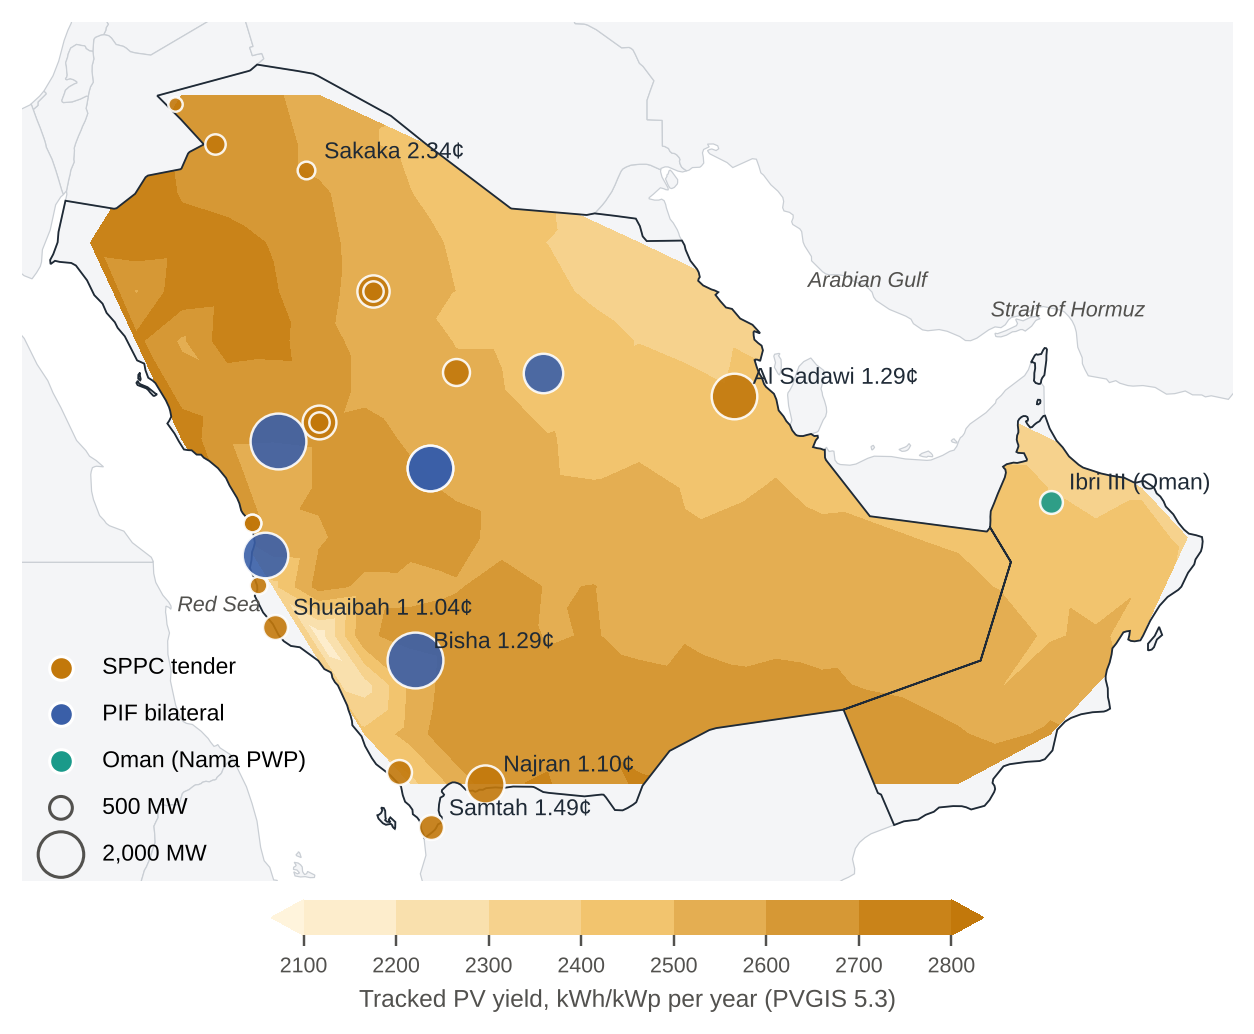
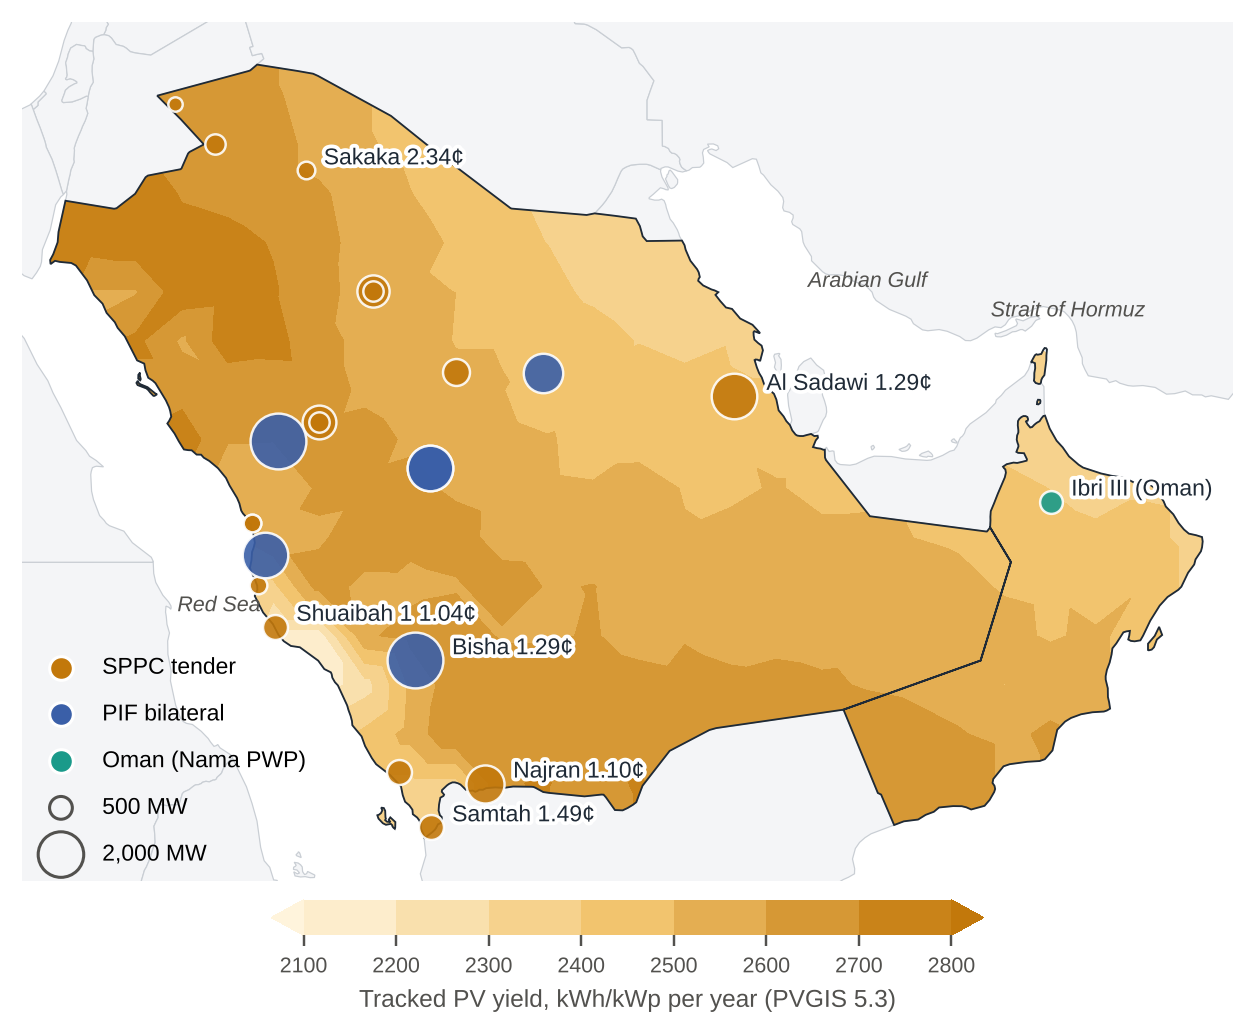
Fill map shading to the borders and halo the project labels

diff --git a/src/nrep/build_map.py b/src/nrep/build_map.py
@@ -7,11 +7,12 @@ from pathlib import Path
 import matplotlib
 
 matplotlib.use("Agg")
-import matplotlib.pyplot as plt  # noqa: E402
-from matplotlib.colors import LinearSegmentedColormap  # noqa: E402
-from matplotlib.patches import PathPatch  # noqa: E402
-from matplotlib.path import Path as MPath  # noqa: E402
-from openpyxl import load_workbook  # noqa: E402
+import matplotlib.patheffects as pe
+import matplotlib.pyplot as plt
+from matplotlib.colors import LinearSegmentedColormap
+from matplotlib.patches import PathPatch
+from matplotlib.path import Path as MPath
+from openpyxl import load_workbook
 
 ROOT = Path(__file__).resolve().parents[2]
 DATA = ROOT / "data"
@@ -31,6 +32,18 @@ def ring_paths(geom):
     return [MPath(p[0]) for p in polys]
 
 
+def pad(points, step=0.5, reach=1.6):
+    """Nearest-value cells just outside the sampled grid, so contours reach the borders (the fill is clipped to land)."""
+    out = list(points)
+    for i in range(int(28 / step)):
+        for j in range(int(20 / step)):
+            x, y = 33 + i * step, 14 + j * step
+            d, z = min(((x - px) ** 2 + (y - py) ** 2, pz) for px, py, pz in points)
+            if 0.75**2 < d <= reach**2:  # interior cells are all within 0.71 of a sample
+                out.append((x, y, z))
+    return out
+
+
 def render(out=OUT, model=ROOT / "model" / "NREP_Tariff_LCOE_Model.xlsx"):
     plt.rcParams["font.family"] = "Liberation Sans"
     borders = json.loads((DATA / "raw" / "borders_mena.geojson").read_text())["features"]
@@ -48,9 +61,7 @@ def render(out=OUT, model=ROOT / "model" / "NREP_Tariff_LCOE_Model.xlsx"):
             ax.add_patch(PathPatch(p, facecolor="#F4F5F7", edgecolor="#C9CED4", lw=0.4, zorder=1))
 
     cmap = LinearSegmentedColormap.from_list("sun", ["#FFF4DC", "#F2C46E", "#C2780B"])
-    xs = [float(g["lon"]) for g in grid]
-    ys = [float(g["lat"]) for g in grid]
-    zs = [float(g["yield_kwh_kwp_yr"]) for g in grid]
+    xs, ys, zs = zip(*pad([(float(g["lon"]), float(g["lat"]), float(g["yield_kwh_kwp_yr"])) for g in grid]))
     levels = [2100 + 100 * k for k in range(8)]
     fill = ax.tricontourf(xs, ys, zs, levels=levels, cmap=cmap, zorder=2, extend="both")
     clip = [p for f in borders if f["properties"]["iso"] in ("SAU", "OMN") for p in ring_paths(f["geometry"])]
@@ -71,7 +82,9 @@ def render(out=OUT, model=ROOT / "model" / "NREP_Tariff_LCOE_Model.xlsx"):
             tag = f"{LABELS[t['id']]}"
             if isinstance(tariffs.get(t["id"]), float):
                 tag += f" {tariffs[t['id']]:.2f}¢"
-            ax.annotate(tag, (x, y), xytext=(6, 4), textcoords="offset points", fontsize=7.5, color=INK, zorder=6)
+            r = (mw / 9) ** 0.5 / 2  # marker radius in points
+            ax.annotate(tag, (x, y), xytext=(r + 3, 2), textcoords="offset points", fontsize=7.5, color=INK, zorder=6,
+                        path_effects=[pe.withStroke(linewidth=2.5, foreground="white")])
 
     for text_, x, y in (("Red Sea", 37.4, 21.0), ("Arabian Gulf", 51.2, 27.6), ("Strait of Hormuz", 55.2, 27.0)):
         ax.text(x, y, text_, fontsize=7, color=TEXT2, style="italic", zorder=6)
